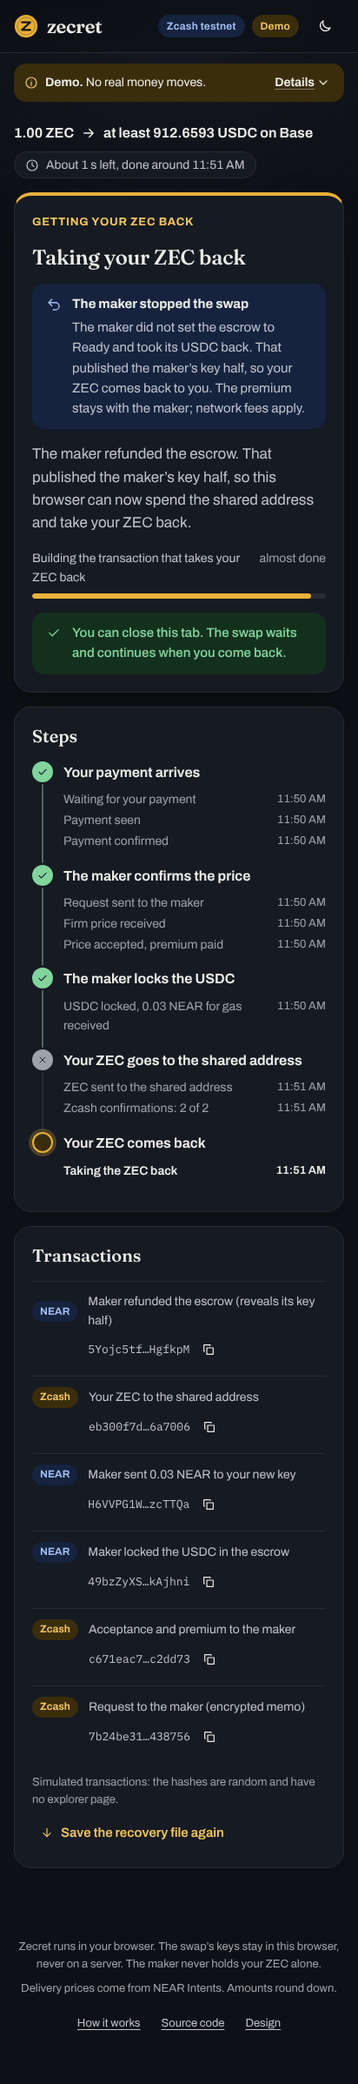
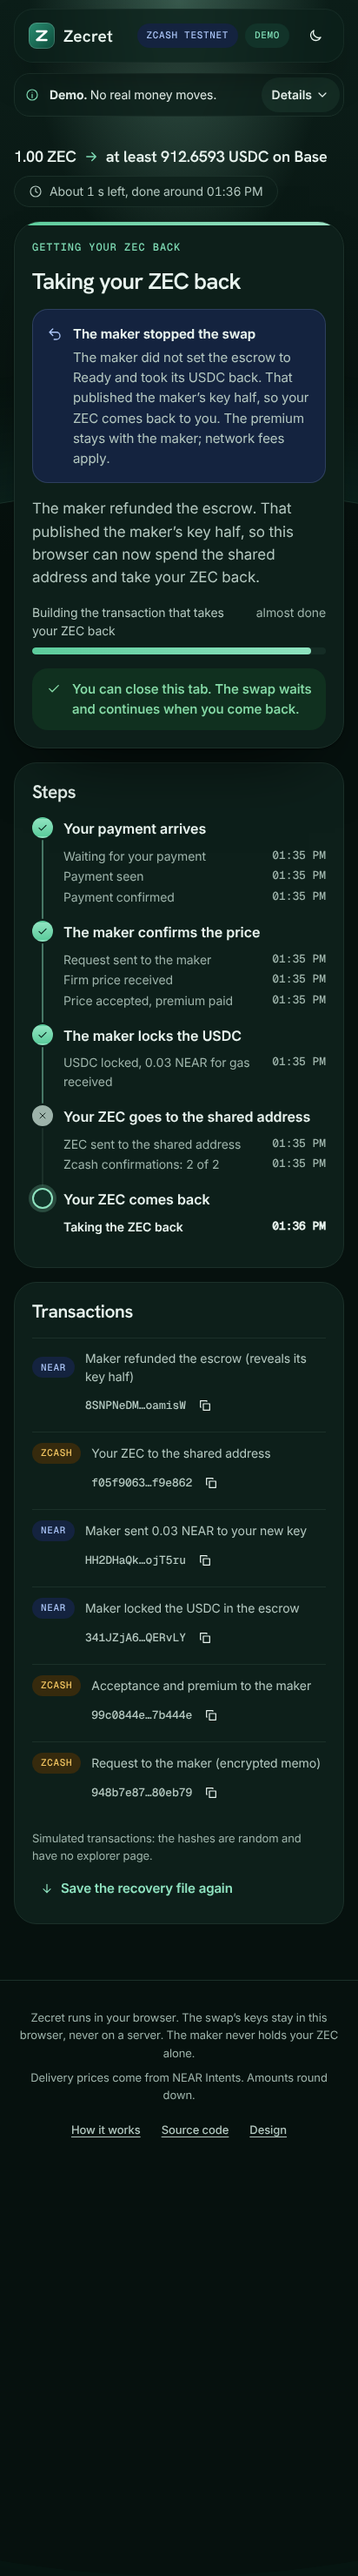
WIP: in-progress snapshot

diff --git a/docs/WEB.md b/docs/WEB.md
@@ -2,7 +2,8 @@
 
 The Zecret website in `web/`: its pages, screens, states, and the decisions taken and
 why. The interface to the swap engine is in `web/ENGINE_API.md`. How to build and test is
-in `web/README.md`. The hosted copy is https://zecret-chrismgs-projects.vercel.app on
+in `web/README.md`. The hosted copy is https://zecret.chrismg.dev (also
+https://zecret-chrismgs-projects.vercel.app) on
 Zcash testnet and NEAR testnet (`docs/HOSTING.md`).
 
 ## Pages and routes
@@ -233,7 +234,9 @@ Which screen shows is a function of the swap's stage (`web/src/App.tsx`,
 | No token logos. | They would load images from third parties and tell them the user's IP address and choice. |
 | `Referrer-Policy: no-referrer`. | Explorer links do not reveal that the user came from Zecret. |
 | Testnet only for the simulator. | Its deposit address is random. A testnet address cannot receive mainnet ZEC by mistake. |
-| Fraunces for headings and amounts, Archivo for text, IBM Plex Mono for addresses; warm paper and ink colours with a gold accent. | A calm, editorial look of its own, not Cloakroom's black outlines. Archivo and Plex Mono come from `design-system/`; all fonts are served by the site. |
+| Deep green and mint, white surfaces, large rounded panels and cards, floating glass cards, pill buttons and mono badges. Hanken Grotesk for headings and amounts with Instrument Serif italic for one or two words, Inter for text, Geist Mono for labels and addresses. The style reference is the Vaynex template; its measured values are in `web/design-system/vaynex-notes.md`. | A designed look that the landing page and every app screen share. All four fonts are SIL OFL 1.1, Latin subsets (about 115 KB together), served by the site with metric-matched fallbacks, so text does not move when they load. The reference's heading font, General Sans, has a licence that forbids subsetting and distribution from a repository, so Hanken Grotesk, the closest open match, replaces it. No image, icon, text or code of the template is used. |
+| Light by default, with a dark variant of the same greens. | The style reference is light only. The dark variant follows the system unless the user picks a theme. |
+| Motion: the hero rises in on load; sections and card groups fade and rise once when they scroll into view; chain names and large words move sideways. | Taken from the reference. `prefers-reduced-motion` turns all of it off, and the moving rows then stand still. Nothing is hidden before the script that reveals it runs. |
 | Theme follows the system, with a toggle that is remembered. | Both themes are designed; the user decides. |
 
 ## Accessibility
@@ -244,7 +247,7 @@ Which screen shows is a function of the swap's stage (`web/src/App.tsx`,
   `aria-live` for the payment wait, the "now" panel and copy confirmations, and
   `role="progressbar"` with values.
 - Colours meet WCAG AA in both themes: every text and status colour pair used is at
-  least 4.94:1 (light) and 5.26:1 (dark), computed from the tokens; field and button
+  least 5.08:1 (light) and 7.08:1 (dark), computed from the tokens; field and button
   borders are at least 3:1. Status is never shown by colour alone.
 - `prefers-reduced-motion` stops the pulses, the spinner and the sliding bar.
 
@@ -261,7 +264,7 @@ Which screen shows is a function of the swap's stage (`web/src/App.tsx`,
 - End to end, `web/e2e/landing.spec.ts`: the landing page loads no engine, its links open
   the app at `/swap` and Back returns; old links with app settings open the app; the
   one-line banners and their details; a failed maker check on testnet.
-- End to end, `web/e2e/responsive.spec.ts`: every screen at 320 and 390 px wide.
+- End to end, `web/e2e/responsive.spec.ts`: every screen at 320, 390, 768 and 1024 px wide.
 - End to end, `web/e2e/tabs.spec.ts`: two tabs of one browser on one swap; a production
   build refuses settings from a link.
 - End to end (`web/e2e/journey.spec.ts`), on a desktop and a phone viewport: the full
@@ -269,8 +272,8 @@ Which screen shows is a function of the swap's stage (`web/src/App.tsx`,
   fresh browser; form checks with keyboard-only token selection; 1Click errors; the
   token list down; the tab-close guard; page responsiveness while the worker busy-loops;
   the theme toggle.
-- Counts on 2026-11-13: 88 unit tests (`npm test`) and 74 Playwright tests (`npm run
-  e2e`: desktop and phone, the 320 and 390 px runs, and 14 screenshot tests).
+- Counts on 2026-11-13: 101 unit tests (`npm test`) and 90 Playwright tests (`npm run
+  e2e`: desktop and phone, the 320, 390, 768 and 1024 px runs, and 18 screenshot tests).
 
 ## Headers
 

diff --git a/web/README.md b/web/README.md
@@ -113,7 +113,7 @@ The automatic check runs five scenarios through the page the same way:
 `../deploy/deployment.testnet.json`, and the relay of the hosted testnet maker
 (`https://zecret-maker-production.up.railway.app/execute-intents`).
 `public/config/testnet-directory.json` holds that maker's signed entry. The hosted site
-(https://zecret-chrismgs-projects.vercel.app/swap) uses these files; see
+(https://zecret.chrismg.dev/swap, also https://zecret-chrismgs-projects.vercel.app/swap) uses these files; see
 [`../docs/HOSTING.md`](../docs/HOSTING.md).
 
 A swap needs testnet ZEC in a wallet that can pay a unified address, and a NEAR testnet
@@ -191,10 +191,12 @@ first (it needs Rust), or the site runs only the demo.
 | `src/lib/` | Pure code: amounts (`units.ts`), price math (`price.ts`), maker directory, 1Click client, ZIP 321 URIs, address checks for 35 chains and Zcash unified addresses (`address/`) |
 | `src/app/` | Page state: boot and engine events (`useZecret.ts`), live price, exit control, stage copy, URL settings |
 | `src/screens/`, `src/ui/` | Screens and components |
-| `src/styles/` | Design tokens (light and dark) and styles |
+| `src/styles/` | Design tokens (light and dark) and styles. The look follows the style reference measured in `design-system/vaynex-notes.md` |
+| `src/assets/fonts/` | Hanken Grotesk, Inter, Instrument Serif italic and Geist Mono: Latin woff2 subsets with their SIL OFL licences |
+| `design-system/vaynex-notes.md` | Measured type, colour, shape, depth, layout and motion of the style reference |
 | `tests/unit/` | Unit tests |
 | `e2e/` | Playwright tests, the 1Click mock and its fixture |
-| `screenshots/` | Key screens, light and dark, desktop and phone (`npm run screenshots`); `*@2x.png`: landing page and swap form, dark, 390 and 1440 px wide |
+| `screenshots/` | Key screens, light and dark, desktop and phone (`npm run screenshots`); `*@2x.png`: landing page and swap form, light and dark, 390 and 1440 px wide, full page |
 
 ## Test vectors
 
